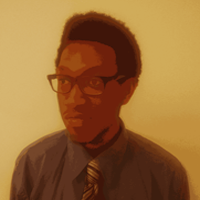
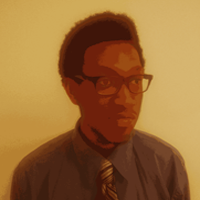
adjust background and tyrell images, fixed dialogue

diff --git a/src/States/BystanderInterventionState.js b/src/States/BystanderInterventionState.js
@@ -1,7 +1,7 @@
 function BystanderIntervention() {
 
   // These are the actual sprites and buttons that will be created and destroyed as the dialogue progresses
-  var choiceButton1, choiceButton2, dateDialogue, friendDialogue;
+  var choiceButton1, choiceButton2, luisDialogue, tyrellDialogue, narrative;
   
   var dialogueTree = [
     {type: 'narrative', msg: 'narrative1'},
@@ -9,8 +9,8 @@ function BystanderIntervention() {
     {type: 'narrative', msg: 'narrative3'},
     {type: 'narrative', msg: 'narrative4'},
     {type: 'narrative', msg: 'narrative5'},
-    {type: 'luis', msg: 'luis1'},
     {type: 'tyrell', msg: 'tyrell1'},
+    {type: 'luis', msg: 'luis1'},
     {type: 'luis', msg: 'luis2'},
     {type: 'tyrell', msg: 'tyrell2'},
     {type: 'luis', msg: 'luis3'},
@@ -18,9 +18,9 @@ function BystanderIntervention() {
     {type: 'luis', msg: 'luis4'},
     {type: 'choice', msg: 0},
     {type: 'tyrell', msg: 'tyrell4'},
-    {type: 'luis', msg: 'luis5'},
-    {type: 'choice', msg: 1},
     {type: 'tyrell', msg: 'tyrell5'},
+    {type: 'choice', msg: 1},
+    {type: 'luis', msg: 'luis5'},
     {type: 'luis', msg: 'luis6'},
     {type: 'tyrell', msg: 'tyrell6'}
     ];
@@ -28,6 +28,7 @@ function BystanderIntervention() {
   var progress;
   var background;
   var DIALOGUE_DISPLAY_TIME = 2000;
+  var NARRATIVE_DISPLAY_TIME = 2000;
 
   function init() {
     progress = 0;
@@ -65,7 +66,7 @@ function BystanderIntervention() {
     game.load.image('luis3', 'assets/bystander-intervention/BI_luis3.png');
     game.load.image('luis4', 'assets/bystander-intervention/BI_luis4.png');
     game.load.image('luis5', 'assets/bystander-intervention/BI_luis5.png');
-    game.load.image('luis6', 'assets/bystander-intervention/BI_luis6.png');
+    game.load.image('luis6', 'assets/bystander-intervention/BI_luis6.png'); //@todo fix this error
 
     //tyrell assets
     game.load.image('tyrellPic', 'assets/tyrell.png');
@@ -180,8 +181,8 @@ function BystanderIntervention() {
    * adds a button to the current state, using the asset key as the image
   **/
 
-  function createDateDialogue(key) {
-    game.add.sprite(game.world.centerX + 150, game.world.centerY - 200, 'datePic');
+  function createLuisDialogue(key) {
+    game.add.sprite(game.world.centerX + 150, game.world.centerY - 200, 'luisPic');
     return game.add.sprite(game.world.centerX - 150, game.world.centerY - 250, key);
   }
 
@@ -190,8 +191,8 @@ function BystanderIntervention() {
    * adds a button to the current state, using the asset key as the image
   **/
 
-  function createFriendDialogue(key) {
-    game.add.sprite(game.world.centerX - 350, game.world.centerY - 200, 'friendPic');
+  function createTyrellDialogue(key) {
+    game.add.sprite(game.world.centerX - 350, game.world.centerY - 200, 'tyrellPic');
     return game.add.sprite(game.world.centerX - 150, game.world.centerY - 250, key);
   }
 
@@ -209,12 +210,16 @@ function BystanderIntervention() {
    * function iterates through dialogueTree and checks 'type' tag in order to display friend/date dialogue or choice buttons.
    */
   function displayNext() {
-    if (dateDialogue) {
-      dateDialogue.destroy();
+    if (tyrellDialogue) {
+      tyrellDialogue.destroy();
     }
     
-    if (friendDialogue) {
-      friendDialogue.destroy();
+    if (luisDialogue) {
+      luisDialogue.destroy();
+    }
+
+    if (narrative) {
+      narrative.destroy();
     }
 
     if (progress >= dialogueTree.length) { 
@@ -239,24 +244,6 @@ function BystanderIntervention() {
           key1 = 'choice2a';
           key2 = 'choice2b';
           console.log('c2');
-          break;
-
-        case 2:
-          key1 = 'choice3a';
-          key2 = 'choice3b';
-          console.log('c3');
-          break;
-
-        case 3:
-          key1 = 'choice4a';
-          key2 = 'choice4b';
-          console.log('c4');
-          break;
-
-        case 4:
-          key1 = 'choice5a';
-          key2 = 'choice5b';
-          console.log('c5');
           break;
 
         default:
@@ -284,12 +271,17 @@ function BystanderIntervention() {
       choiceButton2.events.onInputOver.add(increaseButtonSize.bind({button: choiceButton2}));
       choiceButton2.events.onInputOut.add(decreaseButtonSize.bind({button: choiceButton2}));
     }
+    else if (dialogueTree[progress].type == 'narrative') {
+      narrative = createNarrative(dialogueTree[progress].msg);
+      setTimeout(displayNext, NARRATIVE_DISPLAY_TIME);
+      console.log('narrative');
+    }
     else if (dialogueTree[progress].type == 'luis') {
-      dateDialogue = createDateDialogue(dialogueTree[progress].msg);
+      luisDialogue = createLuisDialogue(dialogueTree[progress].msg);
       setTimeout(displayNext, DIALOGUE_DISPLAY_TIME);
     }
     else if (dialogueTree[progress].type == 'tyrell') {
-      friendDialogue = createFriendDialogue(dialogueTree[progress].msg);
+      tyrellDialogue = createTyrellDialogue(dialogueTree[progress].msg);
       setTimeout(displayNext, DIALOGUE_DISPLAY_TIME);
     }
     else {
@@ -313,8 +305,8 @@ function BystanderIntervention() {
       choiceButton2.destroy();
     }
 
-    dateDialogue = null;
-    friendDialogue = null;
+    luisDialogue = null;
+    tyrellDialogue = null;
     choiceButton1 = null;
     choiceButton2 = null;
     narrative = null;
@@ -358,5 +350,5 @@ function BystanderIntervention() {
   }
 }
 
-// game.state.add('bystander-intervention', new BystanderIntervention());
-// game.state.start('bystander-intervention');
+game.state.add('bystander-intervention', new BystanderIntervention());
+game.state.start('bystander-intervention');
